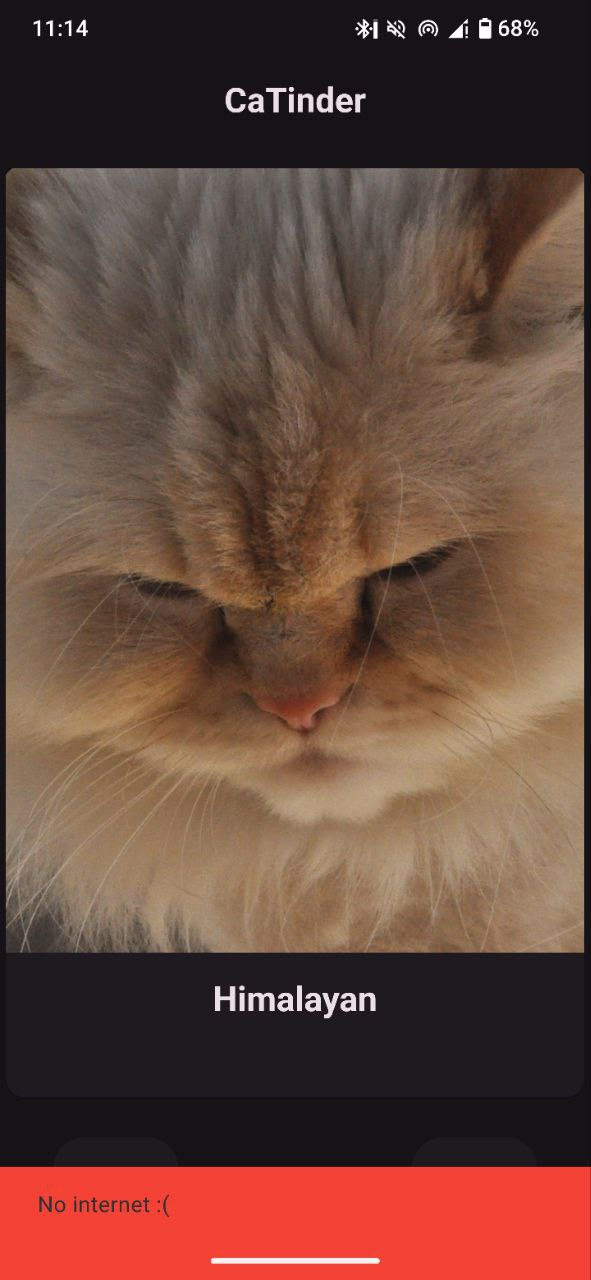
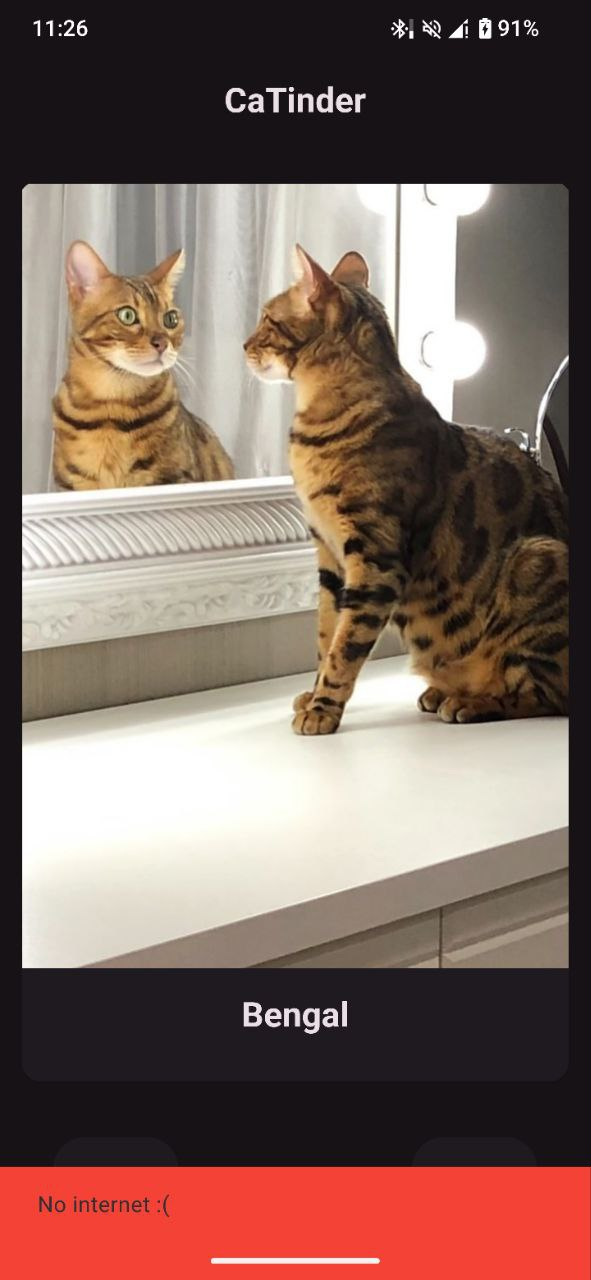
Add padding to card

diff --git a/lib/presentation/swiper/card.dart b/lib/presentation/swiper/card.dart
@@ -50,21 +50,24 @@ class CardWidget extends StatelessWidget {
 
   @override
   Widget build(BuildContext context) {
-    return ClipRRect(
-      borderRadius: BorderRadius.circular(20.0),
-      child: Card(
-        child: SingleChildScrollView(
-          child: FutureBuilder<Cat>(
-            future: card,
-            builder: (context, snapshot) {
-              if (snapshot.hasData) {
-                return _buildLoaded(snapshot.data!, context);
-              } else if (snapshot.hasError) {
-                return _buildError('${snapshot.error}', context);
-              }
+    return Padding(
+      padding: const EdgeInsets.all(10),
+      child: ClipRRect(
+        borderRadius: BorderRadius.circular(20.0),
+        child: Card(
+          child: SingleChildScrollView(
+            child: FutureBuilder<Cat>(
+              future: card,
+              builder: (context, snapshot) {
+                if (snapshot.hasData) {
+                  return _buildLoaded(snapshot.data!, context);
+                } else if (snapshot.hasError) {
+                  return _buildError('${snapshot.error}', context);
+                }
 
-              return _buildLoad(context);
-            },
+                return _buildLoad(context);
+              },
+            ),
           ),
         ),
       ),

diff --git a/README.md b/README.md
@@ -13,7 +13,7 @@
 
 ## Демо
 
-![Главный экран](assets/dеmo-main-screen.jpg)
+![Главный экран](assets/demo-main-screen.jpg)
 
 ![Подробное описание](assets/demo-details-info.jpg)
 
